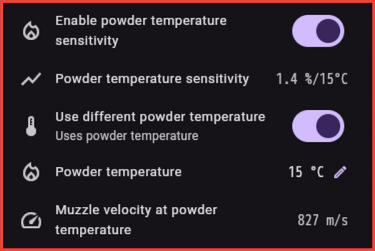
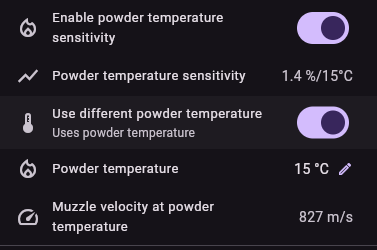
docs(help): rewrite the Conditions topic, refresh its screenshots (0012)

diff --git a/assets/markdown/uk/conditionsScreen.md b/assets/markdown/uk/conditionsScreen.md
@@ -2,7 +2,7 @@
 
 ![Умови стрільби](resource:assets/markdown/uk/conditionsScreen_overview.png)
 
-Екран умов дозволяє задати атмосферні параметри, чутливість пороху до температури та поправку на ефект Коріоліса. Всі значення одразу впливають на розрахунок поправок на головному екрані.
+На екрані «Умови» задаються атмосферні параметри, температурна чутливість пороху та поправка на ефект Коріоліса. Усі значення одразу впливають на поправки, розраховані на головному екрані.
 
 ---
 
@@ -10,7 +10,7 @@
 
 ![Температура](resource:assets/markdown/uk/conditionsScreen_temperature.png)
 
-Великий центральний елемент керування температурою повітря. Проведіть пальцем вгору або вниз щоб змінити значення, або натисніть щоб ввести точне число.
+Температура повітря вгорі. Змінюйте її кнопками **−** і **+** по кроках або **торкніться значення**, щоб ввести точне число (наберіть його або прокрутіть колесо, потім **Підтвердити**).
 
 ---
 
@@ -24,23 +24,23 @@
 - **Вологість** — відносна вологість повітря (%)
 - **Тиск** — атмосферний тиск
 
-Натисніть на будь-яку кнопку, щоб відкрити введення значення з вибором одиниць.
+Торкніться будь-якої кнопки, щоб відкрити введення значення.
 
 ---
 
-### Чутливість пороху до температури
+### Температурна чутливість пороху
 
 ![Чутливість пороху](resource:assets/markdown/uk/conditionsScreen_powderSens.png)
 
-Ця секція враховує зміну початкової швидкості кулі залежно від температури пороху.
+Цей розділ враховує зміну початкової швидкості залежно від температури пороху.
 
-**Перемикач «Чутливість пороху»** — вмикає/вимикає корекцію. Значення чутливості задається у властивостях набою.
+**Перемикач «Враховувати температурну чутливість пороху»** — вмикає або вимикає поправку. Коли він увімкнений, на екрані показується **Температурна чутливість пороху** поточного набою (лише для читання — вона задається у властивостях набою) та **початкова швидкість**, що з неї випливає.
 
-**Перемикач «Інша температура пороху»:**
-- **Вимкнено** — для розрахунку використовується температура повітря з поля вище
-- **Увімкнено** — дозволяє задати окрему температуру пороху (наприклад, коли набої зберігаються в теплому місці, а стрільба ведеться на холоді)
+**Перемикач «Використовувати іншу температуру пороху»:**
+- **Вимкнено** — використовується температура повітря, введена вище (рядок нижче каже «Використовується температура атмосфери»)
+- **Увімкнено** — з'являється окреме поле **Температура пороху** (наприклад, коли набої зберігаються в теплі, а стрільба відбувається на морозі)
 
-Нижче відображається інформаційний рядок з поточною початковою швидкістю (МВ) при заданій температурі пороху.
+В останньому рядку показана початкова швидкість для обраної температури.
 
 ---
 
@@ -50,7 +50,7 @@
 
 Враховує відхилення кулі через обертання Землі. Актуально на дистанціях понад 800–1000 м.
 
-**Перемикач «Ефект Коріоліса»** — вмикає/вимикає корекцію. Після увімкнення з'являються два поля:
+**Перемикач «Ефект Коріоліса»** — вмикає або вимикає поправку. Коли він увімкнений, з'являються два поля (торкніться олівця, щоб редагувати):
 
-- **Широта** — географічна широта точки стрільби (від −90° до +90°)
-- **Азимут** — напрямок пострілу відносно півночі (0–360°)
+- **Широта** — географічна широта позиції стрільця (від −90° до +90°)
+- **Азимут** — напрямок стрільби відносно півночі (0–360°)

diff --git a/assets/markdown/en/conditionsScreen.md b/assets/markdown/en/conditionsScreen.md
@@ -10,7 +10,7 @@ The Conditions screen lets you set atmospheric parameters, powder temperature se
 
 ![Temperature](resource:assets/markdown/en/conditionsScreen_temperature.png)
 
-A large central control for air temperature. Swipe up or down to change the value, or tap to enter an exact number.
+Air temperature at the top. Use the **−** and **+** buttons to change it step by step, or **tap the value** to enter an exact number (type it or scroll the wheel, then **Confirm**).
 
 ---
 
@@ -24,7 +24,7 @@ Three buttons for entering atmospheric conditions:
 - **Humidity** — relative air humidity (%)
 - **Pressure** — atmospheric pressure
 
-Tap any button to open the value input with unit selection.
+Tap any button to open the value input.
 
 ---
 
@@ -34,13 +34,13 @@ Tap any button to open the value input with unit selection.
 
 This section accounts for the change in muzzle velocity depending on powder temperature.
 
-**"Powder Sensitivity" toggle** — enables/disables the correction. The sensitivity value is set in the cartridge properties.
+**"Enable powder temperature sensitivity" toggle** — switches the correction on or off. When it is on, the screen shows the **Powder temperature sensitivity** of the current cartridge (read-only — it is set in the cartridge properties) and the **Muzzle velocity** that results.
 
-**"Different Powder Temperature" toggle:**
-- **Off** — the air temperature entered above is used for the calculation
-- **On** — allows setting a separate powder temperature (e.g. when ammunition is stored in a warm place but fired in the cold)
+**"Use different powder temperature" toggle:**
+- **Off** — the air temperature entered above is used (the line below says "Uses atmospheric temperature")
+- **On** — a separate **Powder temperature** field appears (e.g. when ammunition is kept somewhere warm but fired in the cold)
 
-An info row below shows the current muzzle velocity (MV) at the given powder temperature.
+The last line shows the muzzle velocity for the chosen temperature.
 
 ---
 
@@ -50,7 +50,7 @@ An info row below shows the current muzzle velocity (MV) at the given powder tem
 
 Accounts for bullet deflection due to Earth's rotation. Relevant at distances beyond 800–1000 m.
 
-**"Coriolis Effect" toggle** — enables/disables the correction. Once enabled, two fields appear:
+**"Coriolis effect" toggle** — switches the correction on or off. When it is on, two fields appear (tap the pencil to edit):
 
 - **Latitude** — geographic latitude of the firing position (−90° to +90°)
 - **Azimuth** — firing direction relative to north (0–360°)
